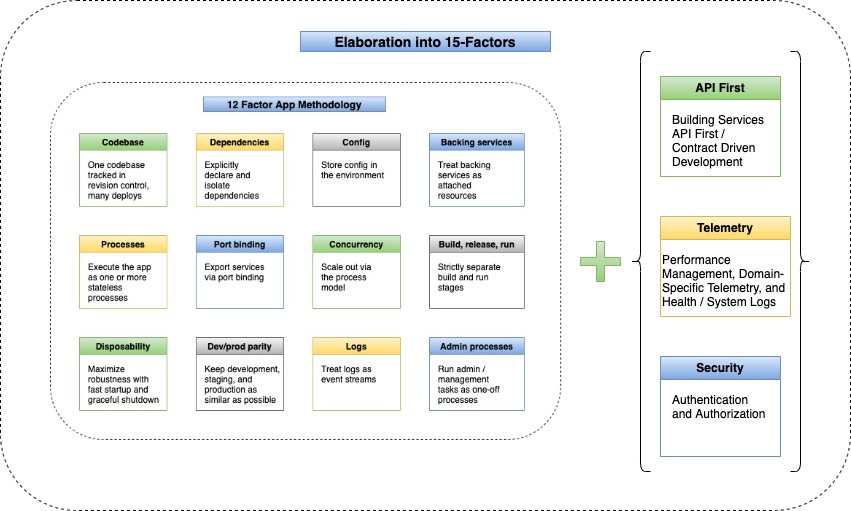
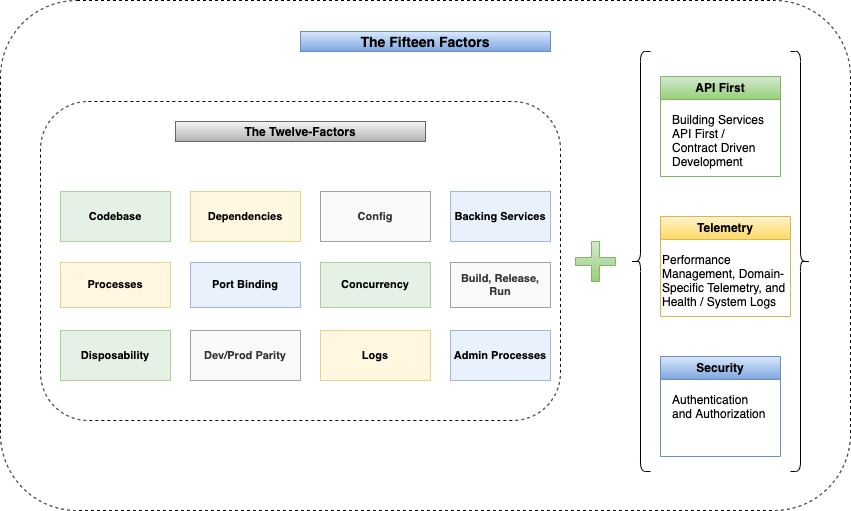
added more principles

diff --git a/README.md b/README.md
@@ -1,29 +1,49 @@
-## 15 factor App
+## Fifteen Factor App
 
-In the continuously evolving world of technology, the most pressing requirement for any software development is to have the application performant, scalable, easily manageable, and resilient. In 2012, programmers at Heroku debuted the 12-Factor app methodology.
+In the continuously evolving world of technology, the most pressing requirement for any software development is to have the application performant, scalable, easily manageable, and resilient. In 2012, programmers at Heroku debuted the 12-Factor app methodology. Twelve-Factor app states the General Principles and Guidelines for creating robust Enterprise Applications.  
 
-Twelve-Factor app states the General Principles and Guidelines for creating robust Enterprise Applications.  In the last decade, the rise of software as a service (SaaS) has reshaped the enterprise-software industry and the software disruption is on high and continuously demanding for adopting new strategic principles, Twelve-factor app principles are equally effective and are aligned with new principles being layout out. 
+In the last decade, the rise of software as a service (SaaS) has reshaped the enterprise-software industry and the software disruption is on high and continuously demanding for adopting new strategic principles, Twelve-factor app principles are equally effective and are aligned with new principles being layout out, but at the same time, need to have extensions to these principles has also ascended.
 
-Looking Beyond (Fifteen-Factor App) - Modern application architectures are more complex and the containerized approach of hosting Cloud Native applications, especially the microservices architecture, makes the complete environment highly dynamic. Considering the scenario, existing layout principles are being elaborated further and three additional factors are suggested – API First approach, Telemetry, and Security (Authentication and Authorization) 
+Modern application architectures are more complex and the containerized approach of hosting Cloud Native applications, especially the microservices architecture, makes the complete environment highly dynamic. This article focuses on the additional factors being discussed across the industry, and are being pretty much in force as well. 
 
+
+#### The Methodology - Fifteen Factor App
+
+Fifteen Factors are an extension and suggested additions to the twelve factors that support the modern application architectures. Looking at the complexity and architectural changes witnessed in modern applications, existing layout principles are being elaborated further and the key suggested factor additions are as below –
+- API First Approach
+- Telemetry
+- Security (Authentication and Authorization)
+
+The methodology remains aligned with the principles suggested in core Twelve-Factor App methodology with an extension to additional factors –
+- Use Declarative Formats for setup automation, to minimize time and cost for new developers joining the project
+- Have a Clean Contract, offering maximum portability between execution environments
+- Are suitable for deployment on modern Cloud Platforms, obviating the need for servers and systems administration
+- Minimize Divergence between development and production, enabling continuous deployment for maximum agility
+- Dynamically Scalable without significant changes to tooling, architecture, or development practices.
+- Service-Driven Approach – Availability of the contract to be consumed by a Front-end client application, routing gateway, or any other downstream system
+- Monitoring the distributed applications deployments for domain/application-specific logs/data, health information, or more statistics on modern cloud platforms
+- Security (Authentication / Authorization) is addressed appropriately so that identity is implemented for each of the requests
+<BR/>
 
 ![15FactorApp-15-Factors.jpg](./images/15FactorApp-15-Factors.jpg)
 
 #### Article References to 15 Factors
 
-| Topic                                                 | Description                                                  |
+| Reference                                                 | Description                                                  |
 | ----------------------------------------------------- | ------------------------------------------------------------ |
 | [Initial Setup & Tools](./setup_and_tools.md)                                     | Quick setup and tools reference to start with                          |
-| [01 Codebase](./01_codebase.md)                                     | Start with Git Repository                          |
-| [02 Dependencies](./02_dependencies.md)                                     | Handle Dependencies                          |
-| [03 Config](./03_config.md)                                     | Managing project Configurations                          |
-| [04 Backing services](./04_backing_services.md)                                     | Backing Services Insight                          |
-| [05 Build, Release, Run](./05_build_release_run.md)                                     | Build, Release, Run stages reference                          |
+| [01 - Codebase](./01_codebase.md)                                     | Start with Git Repository                          |
+| [02 - Dependencies](./02_dependencies.md)                                     | Handle Dependencies                          |
+| [03 - Config](./03_config.md)                                     | Managing project Configurations                          |
+| [04 - Backing services](./04_backing_services.md)                                     | Backing Services Insight                          |
+| [05 - Build, Release, Run](./05_build_release_run.md)                                     | Build, Release, Run stages reference                          |
 | [06 Processes](./06_processes.md)                                     | Stateless Processes                          |
-| [07 Port binding](./07_port_binding.md)                                     | Port Binding Approach reference                          |
-| [08 Concurrency](./08_concurrency.md)                                     | Bringing-in Concurrency                          |
-| [09 Disposability](./09_disposability.md)                                     | Bringing-in Concurrency                          |
-| [10 Dev / Prod Parity](./10_dev_prod_parity.md)                                     | Bringing-in Concurrency                          |
-| [11 Logs](./11_logs.md)                                     | Logging Guideliens                          |
-| [12 Admin Processes](./12_admin_processes.md)                                     | Manage Admin Processes                          |
-| [xxxxx](./02_xxxxx_.md)                                     | Sample Description                             
+| [07 - Port binding](./07_port_binding.md)                                     | Port Binding Approach reference                          |
+| [08 - Concurrency](./08_concurrency.md)                                     | Bringing-in Concurrency                          |
+| [09 - Disposability](./09_disposability.md)                                     | Bringing-in Concurrency                          |
+| [10 - Dev / Prod Parity](./10_dev_prod_parity.md)                                     | Bringing-in Concurrency                          |
+| [11 - Logs](./11_logs.md)                                     | Logging Guidelines                          |
+| [12 - Admin Processes](./12_admin_processes.md)                                     | Manage Admin Processes                          |
+| [13 - API First](./13_api_first.md)                                     | API First Approach                          |
+| [14 - Telemetry](./14_telemetry.md)                                     | Telemetry - Application Monitoring                          |
+| [15 - Security](./15_security.md)                                     | Security - Authentication / Authorization                             

diff --git a/13_api_first.md b/13_api_first.md
@@ -1,0 +1,54 @@
+### XIII.	API First
+
+API First principle implies defining the service contract first to help consumers understand what the request and response communication is expected to be. The service consumers can work in parallel to develop the consuming applications. All this can happen even before the actual service contract is implemented and is made available. 
+
+A few of the major advantages of the API First approach are –
+- Cross-Platform Compatible – Facilitates discussions with various stakeholders whether those are part of an internal team, customers, or third-party systems who want to integrate with the APIs
+- Teams Can Develop in Parallel and Know What to Expect
+- Enables Reuse of Schemas / Contract Definitions
+
+The principle further helps in avoiding bottlenecks as a result of the Waterfall model as multiple stakeholders can work in parallel, finally cutting down the implementation and the integration time.
+
+Further, it facilitates the virtualization of the APIs so that integrating systems can start running the tests against the mocks. This pattern is an extension of the contract-first development pattern, where developers concentrate on building the edges or seams of their application first.
+
+There are numerous tools available to reap the benefits of the API-First Approach. For instance, Apiary provides things like GitHub integration and server mocks. Prism is another open-source HTTP mock server that can mimic your API’s behavior as if you already built it.
+
+![15FactorApp-API-First.jpg](./images/15FactorApp-API-First.jpg)
+
+
+For instance, from Java perspective, Swagger can be utilized to genrate the API contracts which can be further vistualized using any of the tools (like Prism) for parallel development in consumer applications.
+
+##### Sample spring - swagger dependencies -
+```sh
+dependencies {
+    implementation group: 'io.springfox', name: 'springfox-swagger2', version: '3.0.0'
+    implementation group: 'io.springfox', name: 'springfox-swagger-ui', version: '3.0.0'
+}
+```
+
+##### Example - Usage of io.swagger.annotations.ApiResponse 
+```sh
+@PUT
+@Path("/{contextName}/user/{userName}")
+@Consumes({ "application/json" })
+@Produces({ "application/json" })
+@ApiOperation(value = "", notes = "", response = UserProperty.class, tags = {  })
+@ApiResponses(value = {
+        @ApiResponse(
+                code = 200,
+                message = "Successfully updated the user configuration",
+                response = UserProperty.class),
+
+        @ApiResponse(
+                code = 404, message = "context or user not found", response = UserProperty.class),
+
+        @ApiResponse(
+                code = 500, message = "Server error", response = UserProperty.class) })
+void updateUser(@ApiParam(value = "context name", required = true) @PathParam("contextName") String contextName,
+        @ApiParam(value = "User name", required = true) @PathParam("userName") String userName,
+        @ApiParam(value = "The new user configuration", required = true)
+                          UpdateUserRequest updateUserRequest,
+        @Context SecurityContext securityContext, @Suspended final AsyncResponse asyncResponse);
+```
+
+

diff --git a/14_telemetry.md b/14_telemetry.md
@@ -1,0 +1,26 @@
+### XIV.	Telemetry
+
+The principle focuses on design to include the collection of monitoring domain/application-specific logs/data, health information, or more statistics on modern cloud platforms. With increasing dynamicity in the deployments especially in Cloud Native environments, it has become essential to address this factor. Monitoring of a typical cloud-native application can include (but not limited to) -
+- Application performance monitoring (APM) - stream of events monitoring the application's performance
+- Domain-specific telemetry - stream of events and data for analytics and reporting
+- Health and system logs - stream of events, such as application start, shutdown, scaling, web request tracing, and the results of periodic health checks
+
+It is important to have the right Telemetry controls in place for the success of the application in the Cloud Native environment. There are a lot of tools already available to facilitate the same. To name a few – Cloud Provider Tools for Health and System Logs, ELK, Jaeger, Grafana, Prometheus, APM tools like AppDynamics, and others from tools used for Container Orchestration.
+
+![15FactorApp-Telemetry.jpg](./images/15FactorApp-Telemetry.jpg)
+
+
+##### Sample spring - swagger dependencies -
+```sh
+dependencies {
+    // Jaeger dependencies
+    implementation group: 'io.opentracing.contrib', name: 'opentracing-spring-jaeger-cloud-starter', version: '3.1.2'
+    implementation group: 'io.opentracing.contrib', name: 'opentracing-spring-cloud-starter', version: '0.5.9'
+
+    //Log4j dependency 
+    implementation group: 'log4j', name: 'log4j', version: '1.2.17'
+
+    //Health probe dependency - spring-boot example
+    implementation ("org.springframework.boot:spring-boot-starter-actuator:${project.spring_boot_version}")
+}
+```

diff --git a/15_security.md b/15_security.md
@@ -1,0 +1,9 @@
+### XV.	Authentication and Authorization
+
+Security is a very important aspect of any application. At times, while capturing the business requirements, people tend to ignore the security aspect but once realized, it has to be done the right way. All the applications, especially Cloud-Native applications, secure their APIs using Role-Based Access Control (RBAC). 
+
+Simplest of the reason for using user security is to maintain the audit trail of the events happened for a user session, or which user has made what data changes.
+
+There are numerous solutions available like OAuth2, OpenID Connect, various SSO servers, and standards that can simplify the Authentication and Authorization implementation for an application.
+
+
